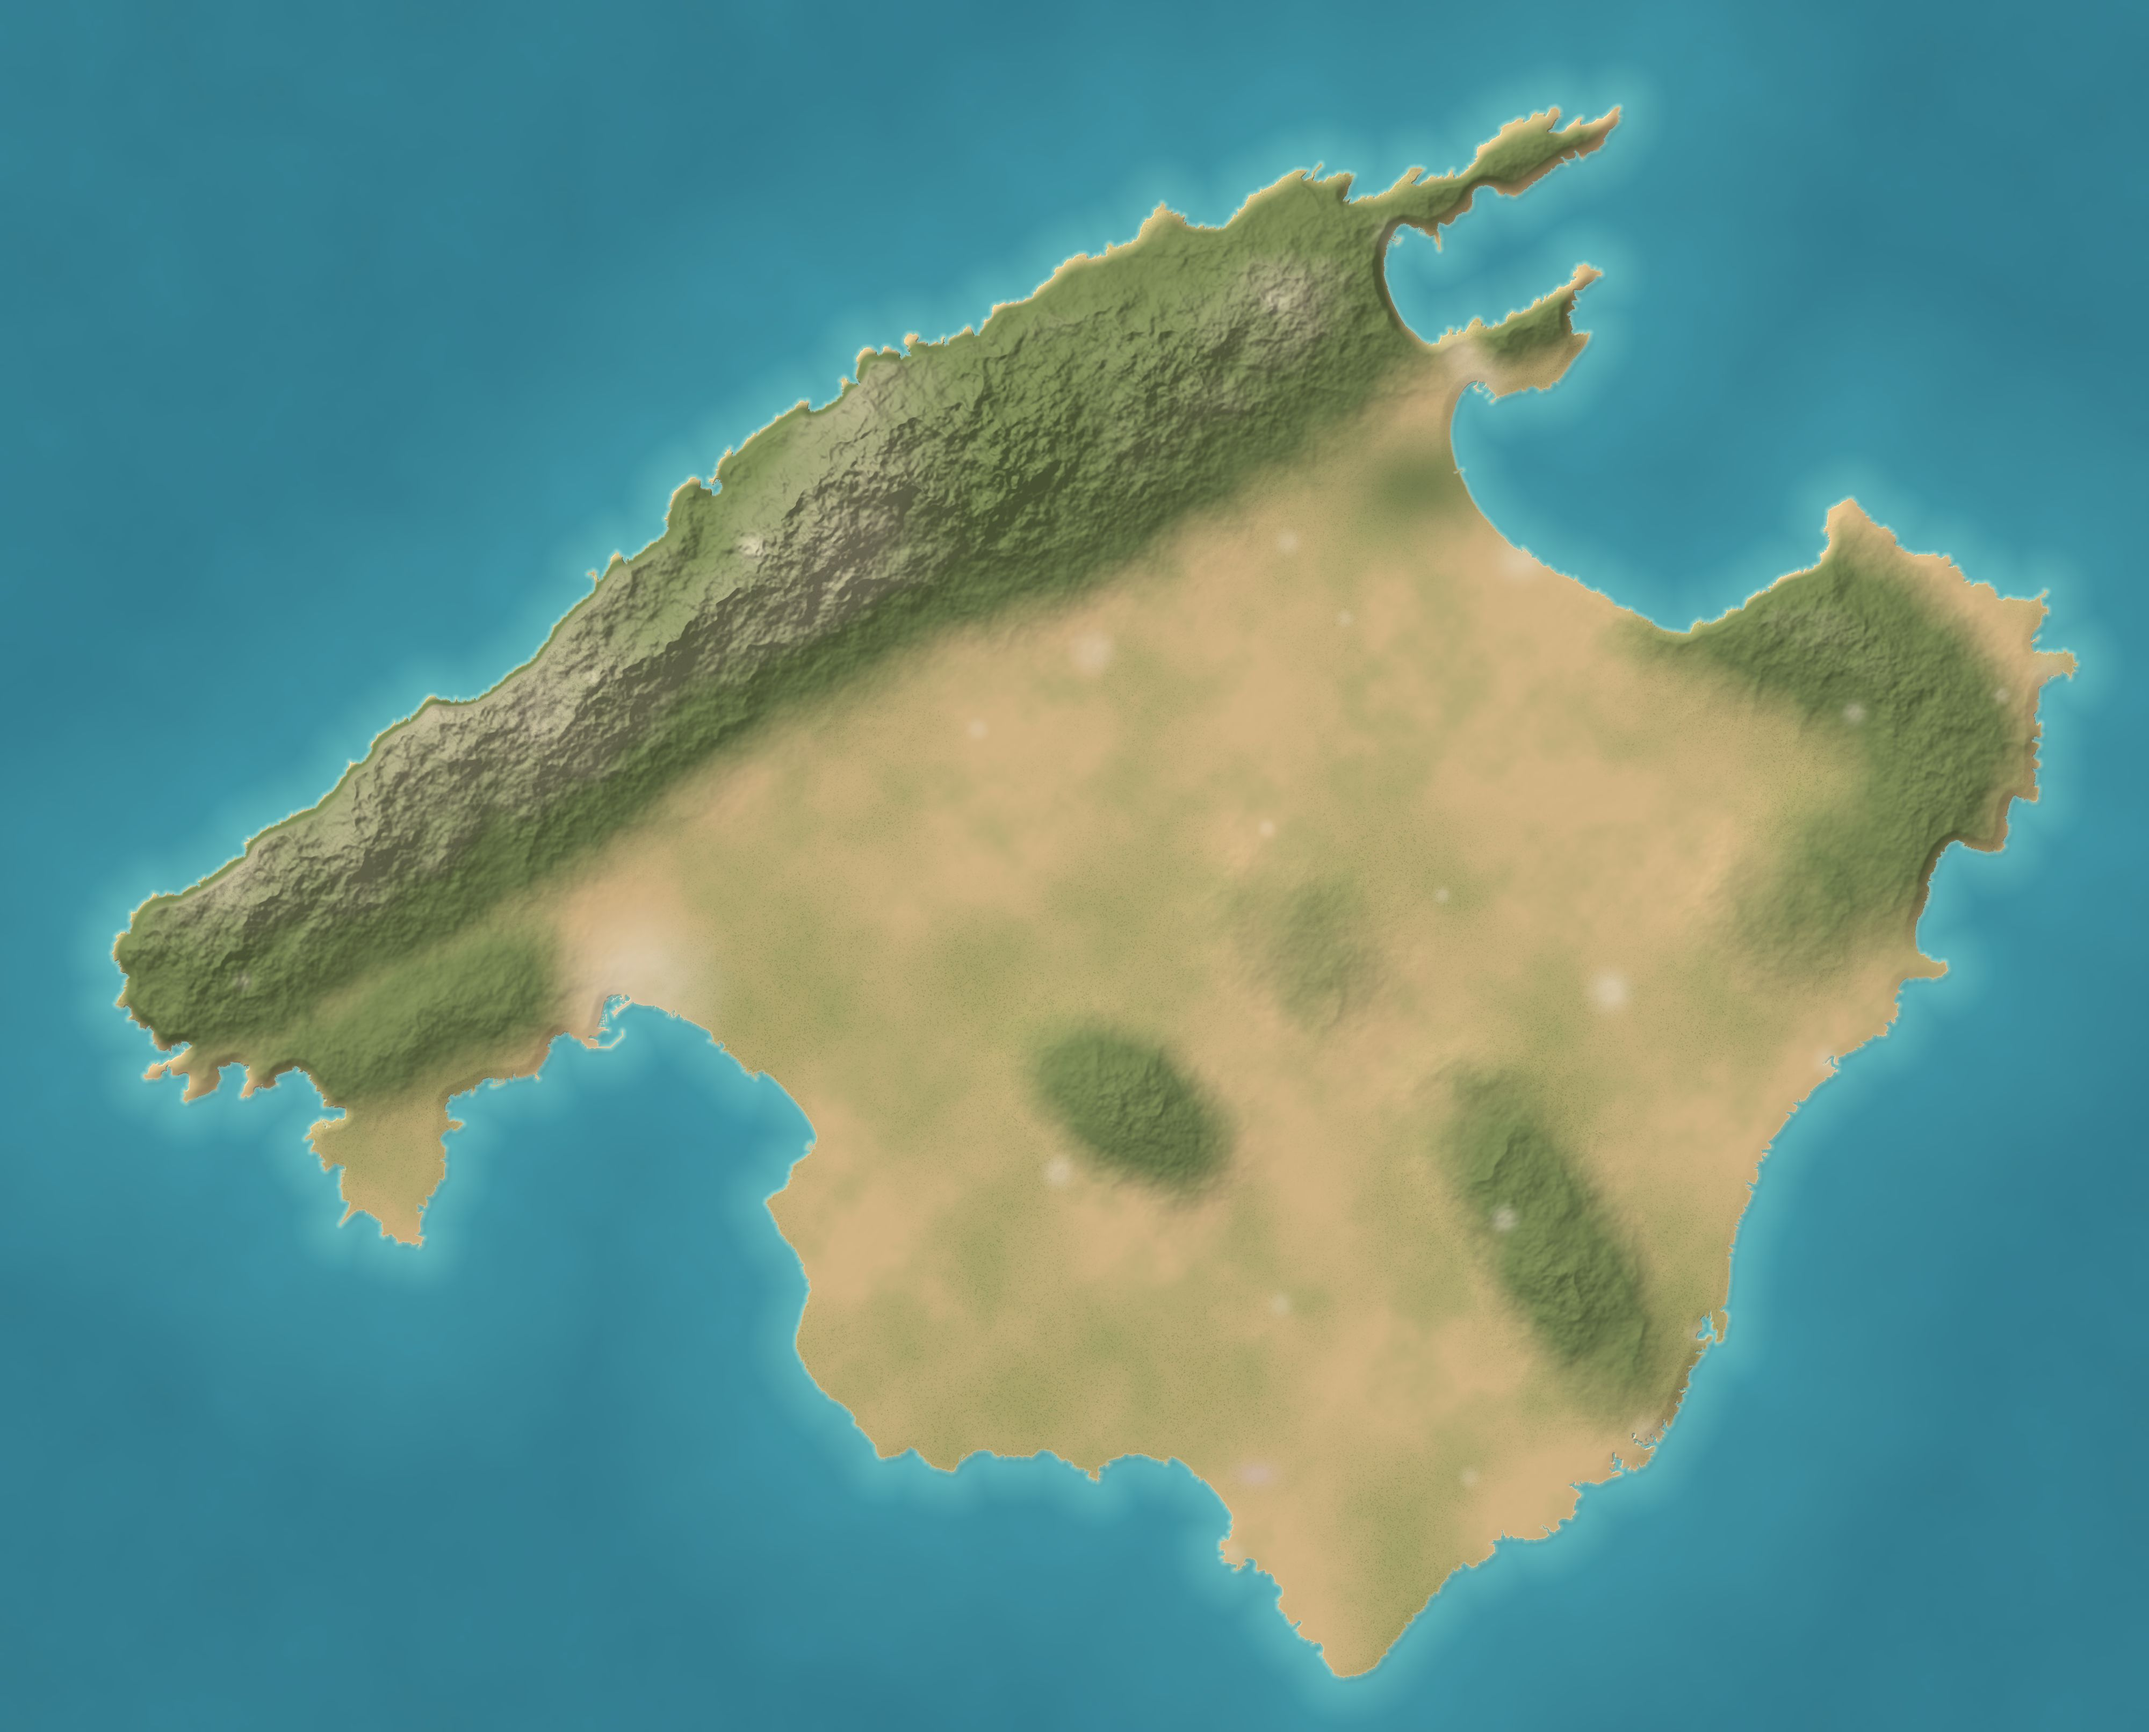
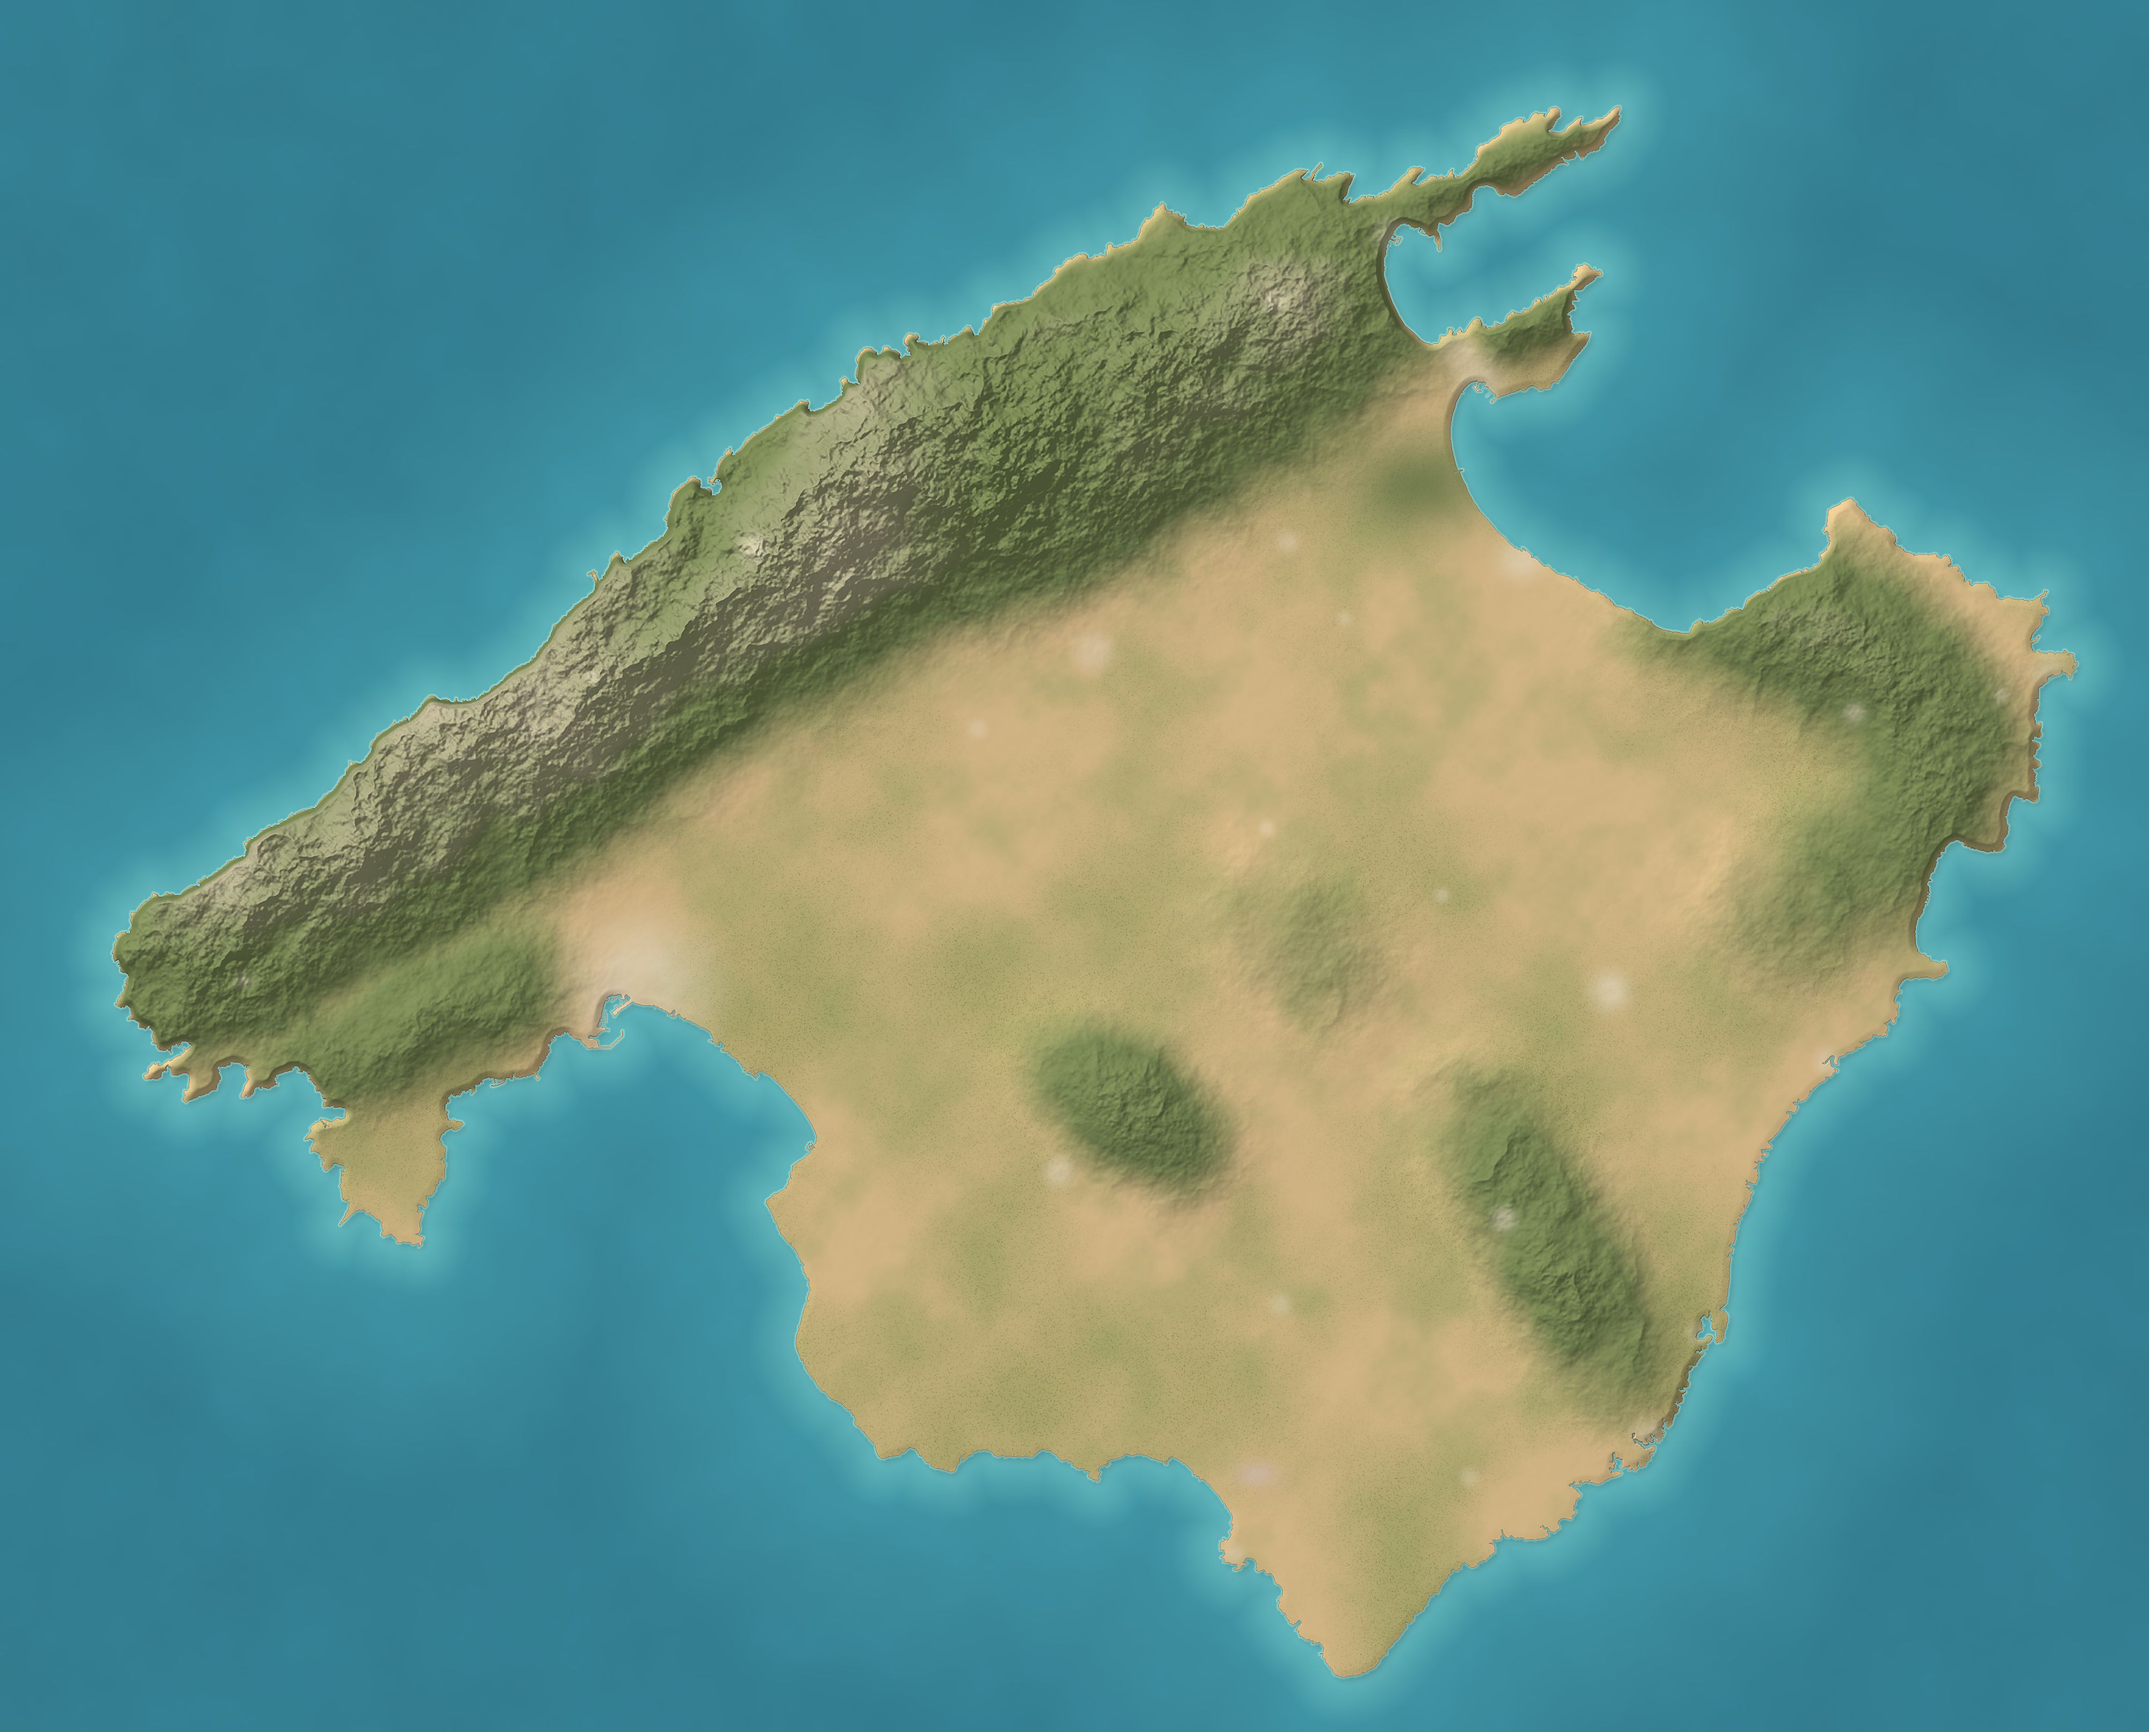
Add files via upload

diff --git a/index.html b/index.html
@@ -114,7 +114,7 @@ p{margin:0}
 .modepick button{display:flex;align-items:center;gap:8px;border:0;background:transparent;border-radius:12px;padding:9px 12px;font-weight:700;font-size:13.5px;cursor:pointer;color:var(--text)}
 .modepick button .ic{width:18px;height:18px}
 .modepick button[aria-pressed="true"]{background:var(--accent2);color:#FFFBF4}
-.topo{filter:sepia(.28) saturate(1.1) brightness(1.02)}
+.topo{}
 .helpbtn{width:32px;height:32px;border-radius:50%;border:1px solid var(--line2);background:var(--surface);color:var(--mute);font:800 15px/1 var(--sans);cursor:pointer;display:grid;place-items:center}
 .helprow{display:grid;grid-template-columns:40px 1fr;gap:10px;align-items:start;padding:8px 0;border-top:1px solid var(--line)}
 .helprow:first-of-type{border-top:0}
@@ -550,8 +550,8 @@ function openHelp(){
 let map, markerLayer, routeLayer, poiLabelLayer, placingCb = null;
 function initMap(){
   if(!window.L){ $("#map").innerHTML = '<p style="padding:90px 20px;color:#fff">Karte konnte nicht geladen werden. Alles andere funktioniert.</p>'; return; }
-  map = L.map("map",{zoomControl:false, attributionControl:false, zoomSnap:0.25, minZoom:8.5, maxZoom:18, maxBounds:[[38.9,1.9],[40.35,3.9]], maxBoundsViscosity:0.8, tap:true});
-  if(innerWidth < 640) map.setView([39.66, 2.98], 9.25); else map.fitBounds([[39.27,2.36],[39.97,3.48]], {padding:[10,10]});
+  map = L.map("map",{zoomControl:false, attributionControl:false, zoomSnap:1, zoomDelta:1, wheelPxPerZoomLevel:120, minZoom:8.5, maxZoom:18, maxBounds:[[38.9,1.9],[40.35,3.9]], maxBoundsViscosity:0.8, tap:true});
+  if(innerWidth < 640) map.setView([39.66, 2.98], 9); else map.fitBounds([[39.27,2.36],[39.97,3.48]], {padding:[10,10]});
   const cont = map.getContainer();
   const MAPB = [[39.24, 2.28], [40.01, 3.52]];
   const base = L.imageOverlay("map.jpg", MAPB, {interactive:false, className:"basemap"}).addTo(map);
@@ -568,7 +568,7 @@ function initMap(){
   let mode = "relief";
   window.setMapMode = m => {
     mode = m; [sat, topo].forEach(l => map.hasLayer(l) && map.removeLayer(l));
-    if(m === "relief"){ if(map.getZoom() > 14) map.setZoom(14); map.setMaxZoom(14); if(!map.hasLayer(roads)) roads.addTo(map); if(!map.hasLayer(base)) base.addTo(map); $("#attrib").textContent = ""; }
+    if(m === "relief"){ if(map.getZoom() > 13) map.setZoom(13); map.setMaxZoom(13); if(!map.hasLayer(roads)) roads.addTo(map); if(!map.hasLayer(base)) base.addTo(map); $("#attrib").textContent = ""; }
     else { (m === "karte" ? topo : sat).addTo(map); map.removeLayer(roads); map.removeLayer(base); map.setMaxZoom(18); $("#attrib").textContent = MODES[m][2]; }
     if(m === "karte"){ townMajor.remove(); townMinor.remove(); } else { townMajor.addTo(map); if(map.getZoom() >= 11) townMinor.addTo(map); }
     $("#satBtn").classList.toggle("on", m !== "relief");
@@ -581,7 +581,7 @@ function initMap(){
     box.querySelectorAll("button").forEach(b => b.onclick = () => { window.setMapMode(b.dataset.m); box.remove(); });
     document.querySelector(".mapwrap").appendChild(box);
   };
-  map.setMaxZoom(14);
+  map.setMaxZoom(13);
   const townMajor = L.layerGroup().addTo(map), townMinor = L.layerGroup();
   DATA.labels.forEach(([la,ln,name]) => { const major = MAJOR.has(name); L.marker([la,ln],{interactive:false,keyboard:false,icon:L.divIcon({className:"",html:`<span class="lbl town ${major?"major":""}">${esc(name)}</span>`,iconSize:null,iconAnchor:major?[20,-14]:[16,-12]})}).addTo(major?townMajor:townMinor); });
   map.on("zoomend", () => { if(map.getZoom() >= 11 && mode !== "karte") townMinor.addTo(map); else townMinor.remove(); });

diff --git a/sw.js b/sw.js
@@ -1,4 +1,4 @@
-const APP = "mallorca-app-v5", TILES = "mallorca-tiles-v5";
+const APP = "mallorca-app-v6", TILES = "mallorca-tiles-v5";
 const SHELL = ["./", "./index.html", "./manifest.webmanifest", "./icon-180.png", "./icon-512.png", "./map.jpg",
   "https://cdnjs.cloudflare.com/ajax/libs/leaflet/1.9.4/leaflet.min.css",
   "https://cdnjs.cloudflare.com/ajax/libs/leaflet/1.9.4/leaflet.min.js"];
